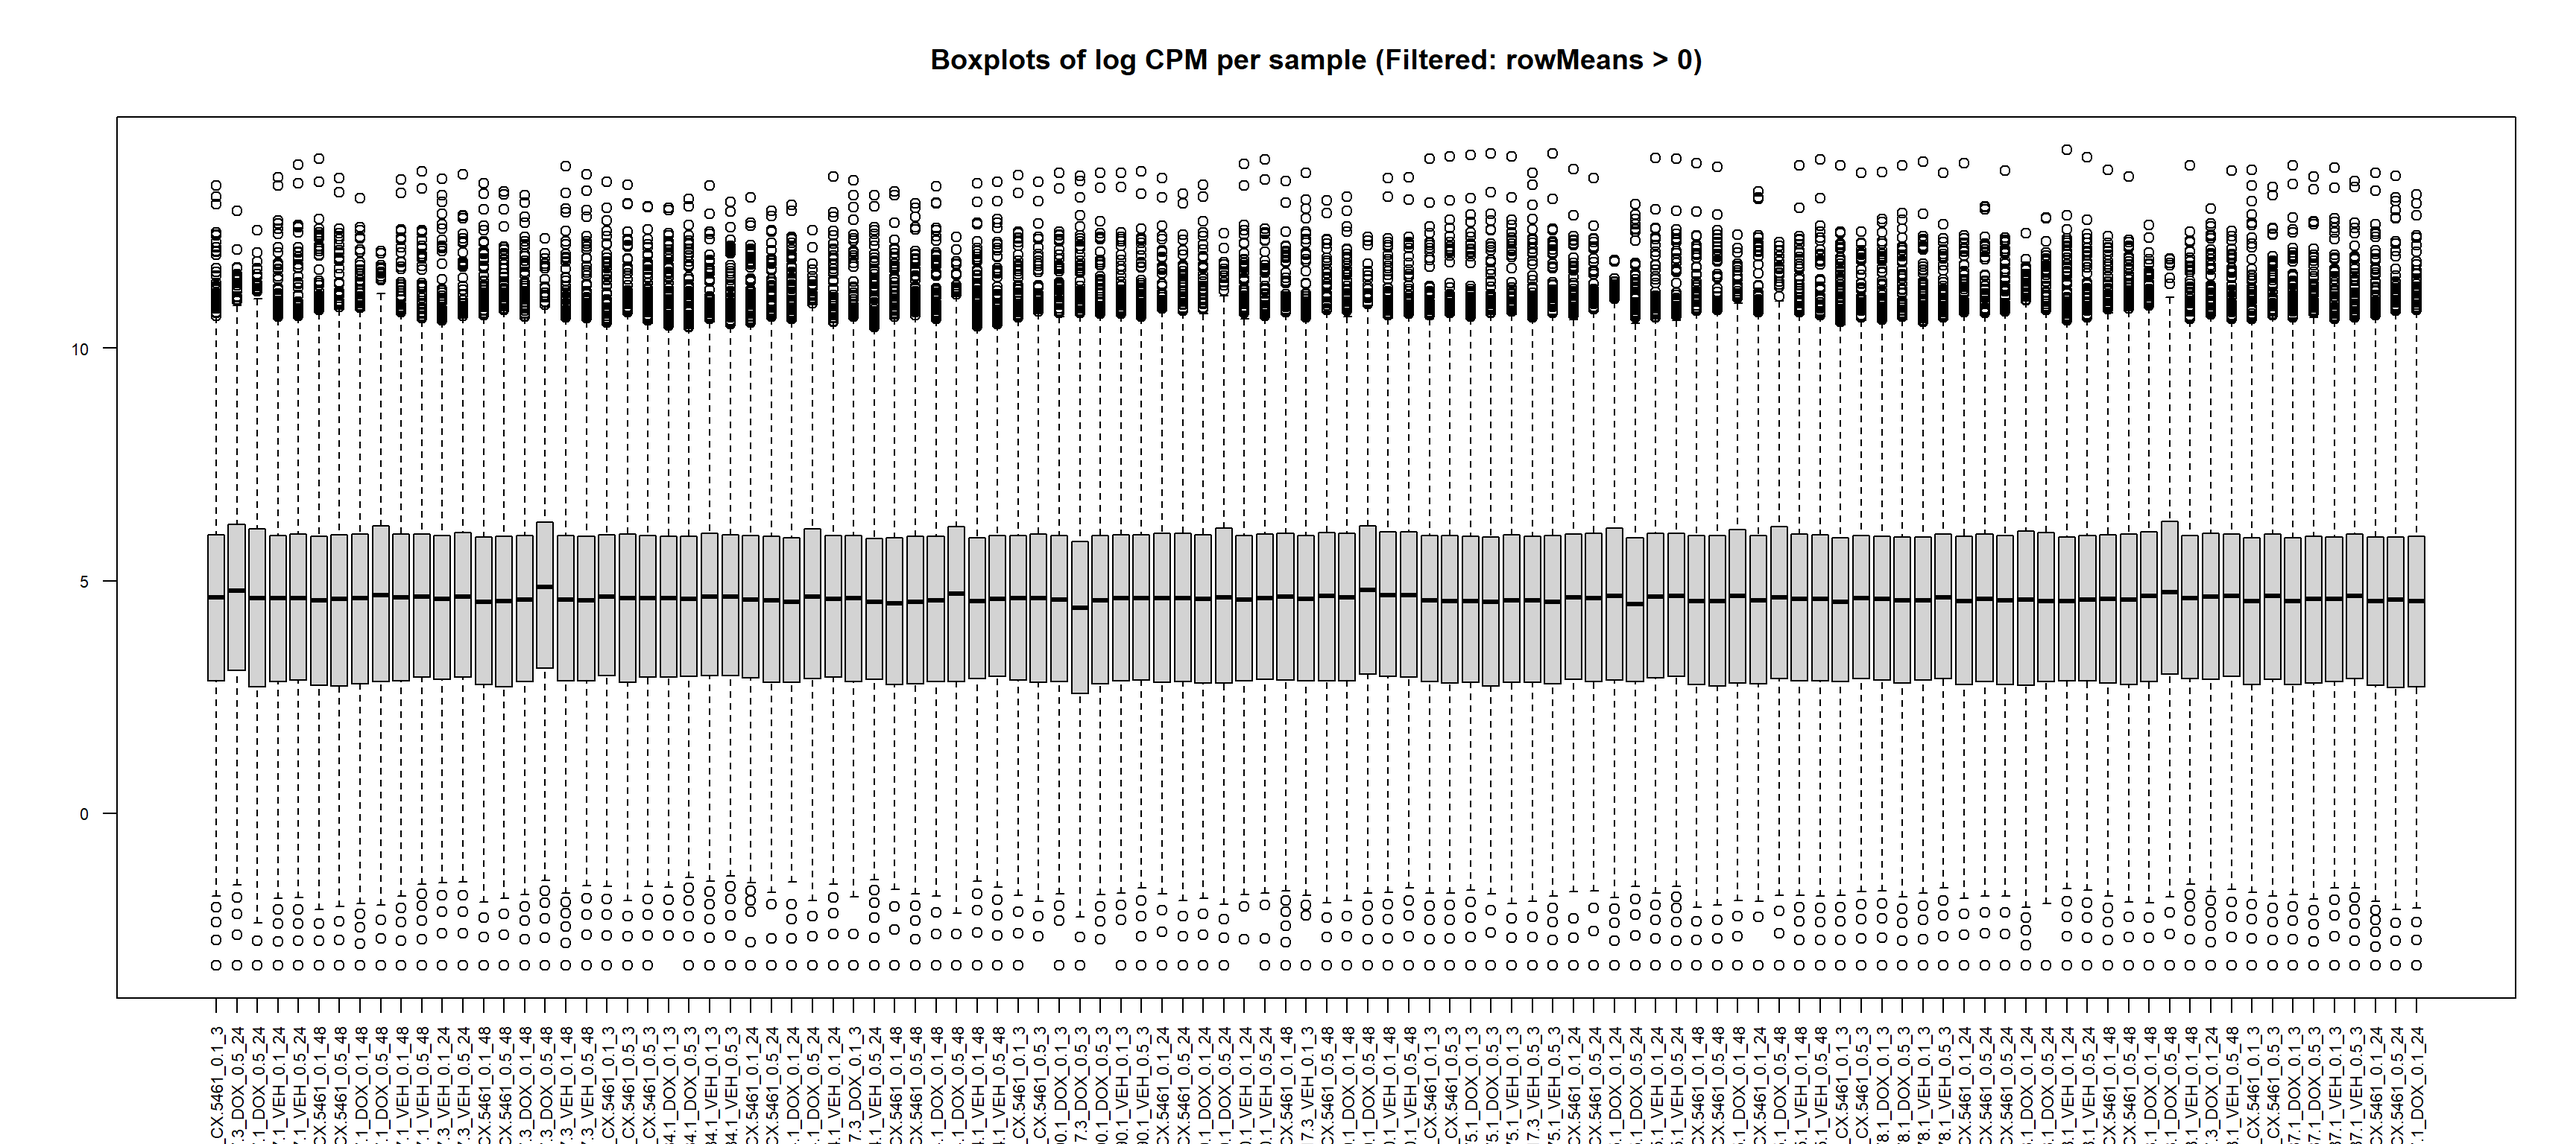
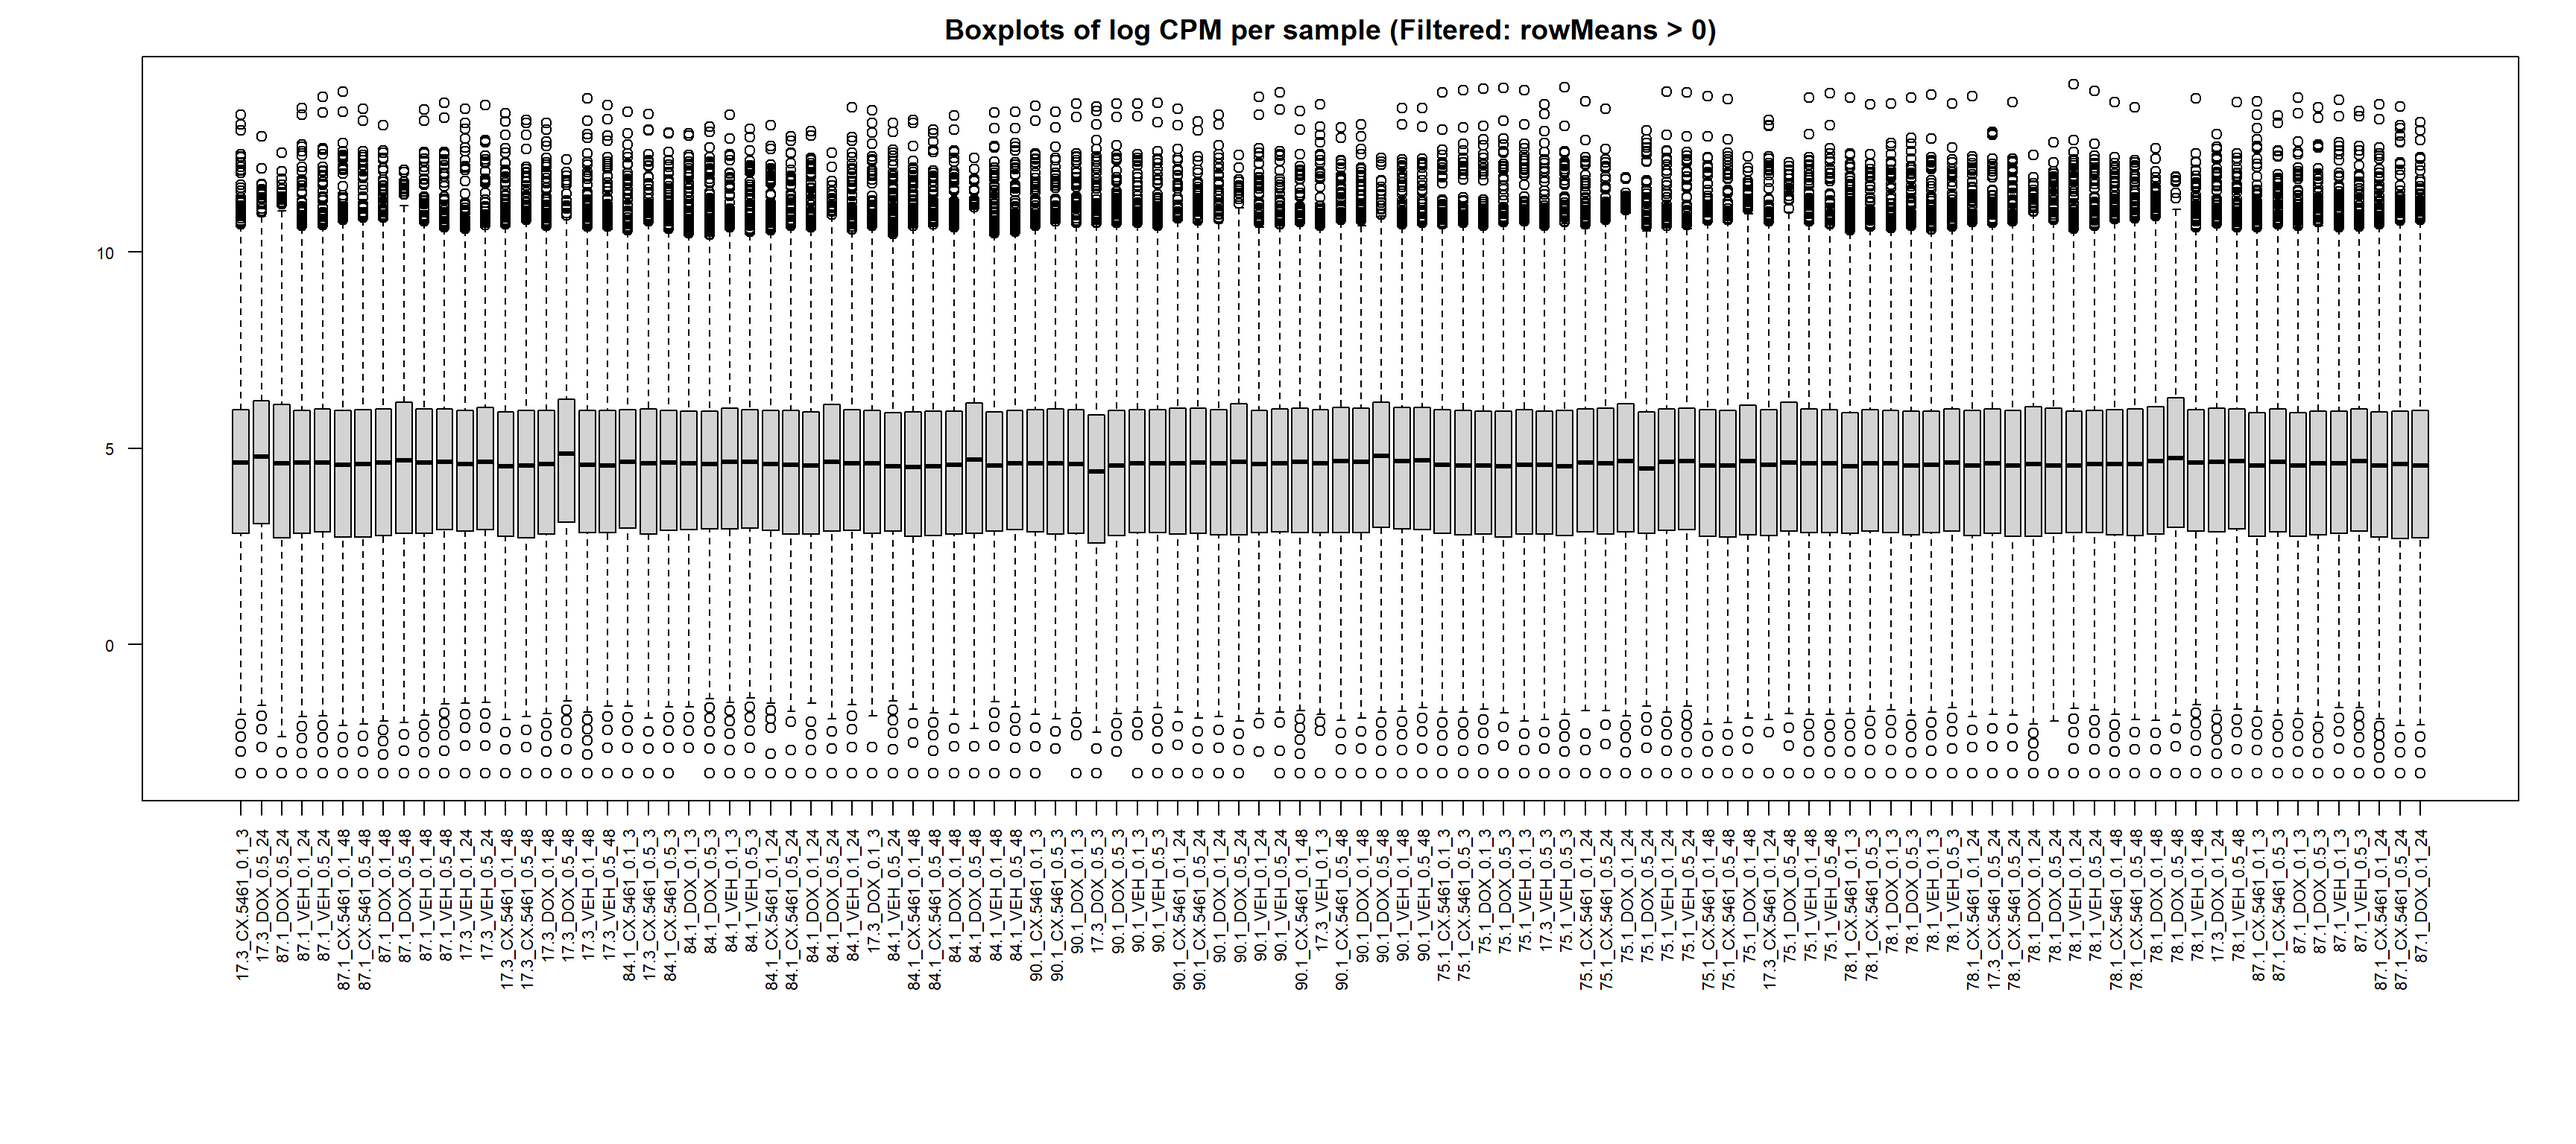
Build site.

diff --git a/docs/count_matrix_analysis.html b/docs/count_matrix_analysis.html
@@ -11,7 +11,7 @@
 
 <meta name="author" content="Sayan Paul" />
 
-<meta name="date" content="2025-01-31" />
+<meta name="date" content="2025-02-01" />
 
 <title>Count Matrix Analysis</title>
 
@@ -353,7 +353,7 @@ div.tocify {
 
 <h1 class="title toc-ignore">Count Matrix Analysis</h1>
 <h4 class="author">Sayan Paul</h4>
-<h4 class="date">2025-01-31</h4>
+<h4 class="date">2025-02-01</h4>
 
 </div>
 
@@ -382,7 +382,7 @@ class="glyphicon glyphicon-ok text-success" aria-hidden="true"></span>
 <div class="tab-content">
 <div id="summary" class="tab-pane fade in active">
 <p>
-<strong>Last updated:</strong> 2025-01-31
+<strong>Last updated:</strong> 2025-02-01
 </p>
 <p>
 <strong>Checks:</strong> <span
@@ -513,15 +513,15 @@ project makes it easier to run your code on other machines.</p>
 <div class="panel panel-default">
 <div class="panel-heading">
 <p class="panel-title">
-<a data-toggle="collapse" data-parent="#workflowr-checks" href="#strongRepositoryversionstrongahrefhttpsgithubcomsayanpaul01CX5461Projecttree8bb6749fb9101c1b7aed989580bf63a9a00869e1targetblank8bb6749a">
+<a data-toggle="collapse" data-parent="#workflowr-checks" href="#strongRepositoryversionstrongahrefhttpsgithubcomsayanpaul01CX5461Projecttree214d4aa5861e0789801272fe44b7fa4988b0e2a7targetblank214d4aaa">
 <span class="glyphicon glyphicon-ok text-success"
 aria-hidden="true"></span> <strong>Repository version:</strong>
-<a href="https://github.com/sayanpaul01/CX5461_Project/tree/8bb6749fb9101c1b7aed989580bf63a9a00869e1" target="_blank">8bb6749</a>
+<a href="https://github.com/sayanpaul01/CX5461_Project/tree/214d4aa5861e0789801272fe44b7fa4988b0e2a7" target="_blank">214d4aa</a>
 </a>
 </p>
 </div>
 <div
[2 lines of base64/hex data omitted]
 class="panel-collapse collapse">
 <div class="panel-body">
 <p>
@@ -531,7 +531,7 @@ reproducibility.
 </p>
 <p>
 The results in this page were generated with repository version
-<a href="https://github.com/sayanpaul01/CX5461_Project/tree/8bb6749fb9101c1b7aed989580bf63a9a00869e1" target="_blank">8bb6749</a>.
+<a href="https://github.com/sayanpaul01/CX5461_Project/tree/214d4aa5861e0789801272fe44b7fa4988b0e2a7" target="_blank">214d4aa</a>.
 See the <em>Past versions</em> tab to see a history of the changes made
 to the R Markdown and HTML files.
 </p>
@@ -594,6 +594,40 @@ Message
 </tr>
 </thead>
 <tbody>
+<tr>
+<td>
+Rmd
+</td>
+<td>
+<a href="https://github.com/sayanpaul01/CX5461_Project/blob/214d4aa5861e0789801272fe44b7fa4988b0e2a7/analysis/count_matrix_analysis.Rmd" target="_blank">214d4aa</a>
+</td>
+<td>
+sayanpaul01
+</td>
+<td>
+2025-02-01
+</td>
+<td>
+wflow_publish("analysis/count_matrix_analysis.Rmd")
+</td>
+</tr>
+<tr>
+<td>
+html
+</td>
+<td>
+<a href="https://rawcdn.githack.com/sayanpaul01/CX5461_Project/c8f64bf425d3bbb9931064cf54b492d4f41ab702/docs/count_matrix_analysis.html" target="_blank">c8f64bf</a>
+</td>
+<td>
+sayanpaul01
+</td>
+<td>
+2025-01-31
+</td>
+<td>
+Build site.
+</td>
+</tr>
 <tr>
 <td>
 Rmd
@@ -1642,6 +1676,17 @@ Date
 <tbody>
 <tr>
 <td>
+<a href="https://github.com/sayanpaul01/CX5461_Project/blob/c8f64bf425d3bbb9931064cf54b492d4f41ab702/docs/figure/count_matrix_analysis.Rmd/box_lCPM-1.png" target="_blank">c8f64bf</a>
+</td>
+<td>
+sayanpaul01
+</td>
+<td>
+2025-01-31
+</td>
+</tr>
+<tr>
+<td>
 <a href="https://github.com/sayanpaul01/CX5461_Project/blob/663ff7f47ffa46d8d4580cc3f938d6abb944992f/docs/figure/count_matrix_analysis.Rmd/box_lCPM-1.png" target="_blank">663ff7f</a>
 </td>
 <td>
@@ -1671,7 +1716,9 @@ sayanpaul01
 class="section level3">
 <h3><strong>📌 Boxplot of log CPM per sample (Filtered: rowMeans &gt;
 0)</strong></h3>
-<pre class="r"><code>boxplot(filcpm_matrix, 
+<pre class="r"><code># Set margin parameters to prevent X-axis label cutoff
+par(mar = c(12,5,2,2))
+boxplot(filcpm_matrix, 
         main = &quot;Boxplots of log CPM per sample (Filtered: rowMeans &gt; 0)&quot;, 
         names = colnames(filcpm_matrix), 
         adj=1, las = 2, cex.axis = 0.7)</code></pre>
@@ -1730,6 +1777,8 @@ class="section level3">
 <h3><strong>📌 Boxplot of log CPM per sample (Filtered: rowMeans &gt;
 0.5)</strong></h3>
 <pre class="r"><code># Boxplot of log CPM per sample (Filtered: rowMeans &gt; 0.5)
+# Set margin parameters to prevent X-axis label cutoff
+par(mar = c(12,5,2,2))
 boxplot(filcpm_matrix1, 
         main = &quot;Boxplots of log CPM per sample (Filtered: rowMeans &gt; 0.5)&quot;, 
         names = colnames(filcpm_matrix1), 
@@ -1789,6 +1838,8 @@ class="section level3">
 <h3><strong>📌 Boxplot of log CPM per sample (Filtered: rowMeans &gt;
 1)</strong></h3>
 <pre class="r"><code># Boxplot of log CPM per sample (Filtered: rowMeans &gt; 1)
+# Set margin parameters to prevent X-axis label cutoff
+par(mar = c(12,5,2,2))
 boxplot(filcpm_matrix2, 
         main = &quot;Boxplots of log CPM per sample (Filtered: rowMeans &gt; 1)&quot;, 
         names = colnames(filcpm_matrix2), 
